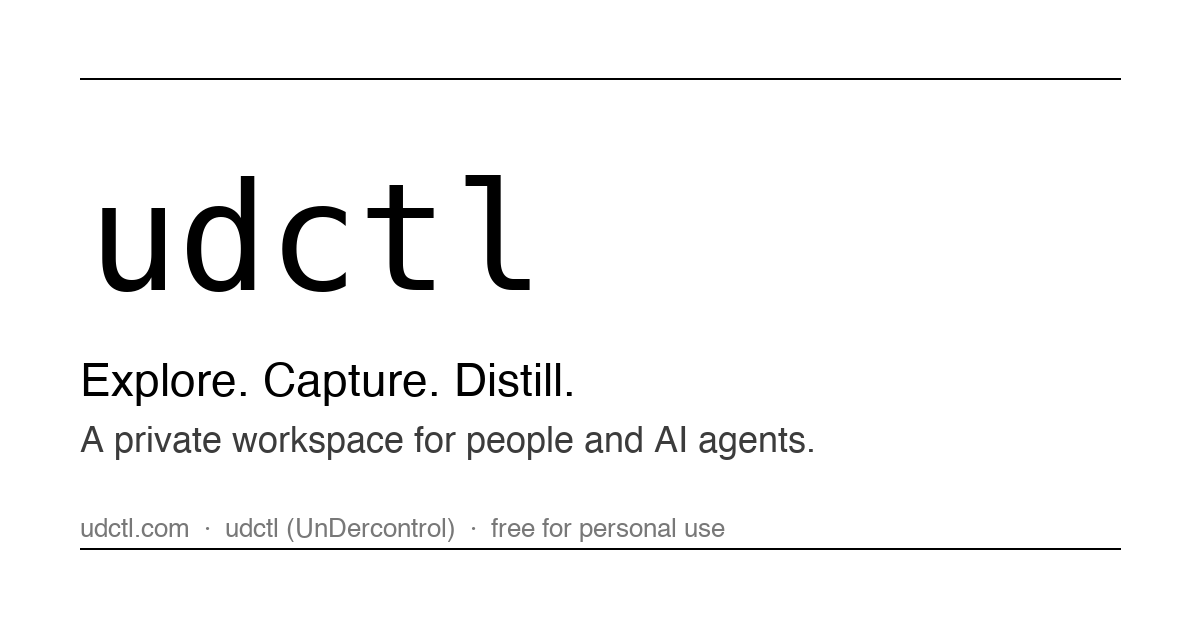
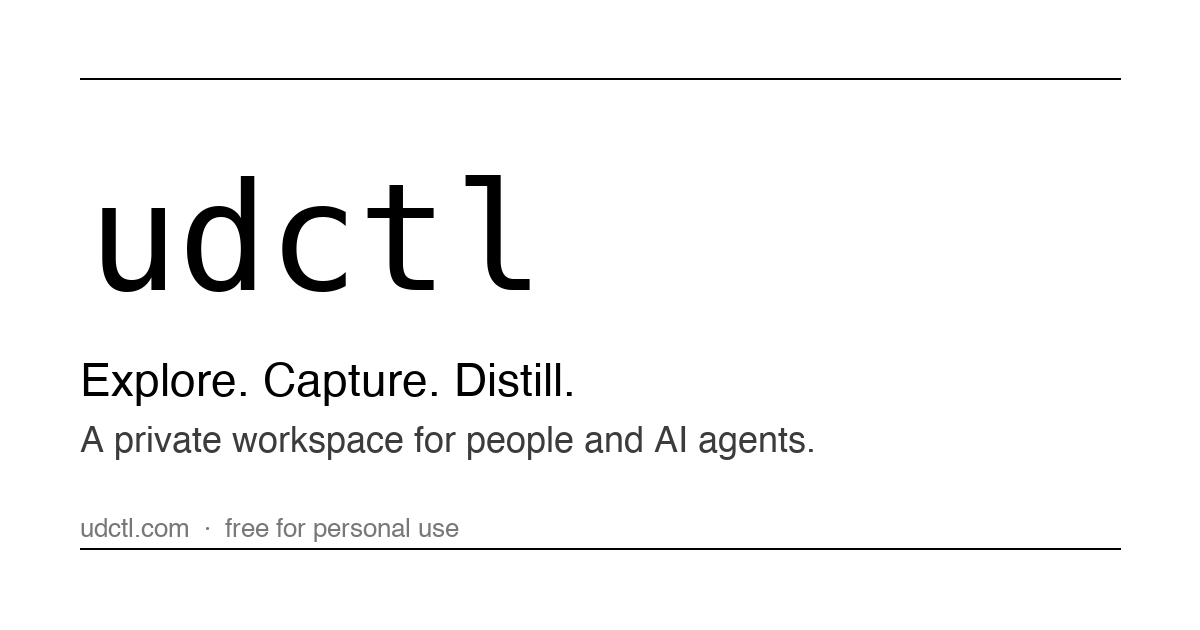
[02206f64] docs(brand): drop the former full name UnDercontrol, product name stays lowercase udctl (owner ruling 927)

Changed region(s): [[0.185, 0.8143, 0.6167, 0.8746]]

diff --git a/src/pages/index.tsx b/src/pages/index.tsx
@@ -1193,8 +1193,8 @@ function CtaSection() {
 
 /**
  * Structured data for the homepage (audit efb0ebf3 #6). Two nodes in one graph:
- * the Organization is what search engines attach the brand ("udctl", formerly
- * "UnDercontrol") and the sameAs profiles to; the SoftwareApplication is what
+ * the Organization is what search engines attach the brand ("udctl"; no alternateName since
+ * the 2026-11-12 ruling, ud card 02206f64) and the sameAs profiles to; the SoftwareApplication is what
  * lets a result carry the app category / price / platforms. `name` is not
  * translated on purpose — the brand token is the same in every locale — while
  * the description reuses the localized meta description so the two never drift.
@@ -1208,7 +1208,6 @@ function homepageJsonLd(description: string): string {
         '@type': 'Organization',
         '@id': `${url}/#organization`,
         name: 'udctl',
-        alternateName: 'UnDercontrol',
         url,
         logo: `${url}/img/favicon.svg`,
         sameAs: [
@@ -1222,7 +1221,6 @@ function homepageJsonLd(description: string): string {
         '@type': 'SoftwareApplication',
         '@id': `${url}/#software`,
         name: 'udctl',
-        alternateName: 'UnDercontrol',
         description,
         url,
         downloadUrl: `${url}/download`,
@@ -1265,7 +1263,7 @@ export default function Home(): ReactNode {
   const metaDescription = translate({
     id: 'homepage.description',
     message:
-      'udctl (UnDercontrol) is a self-hostable workspace for tasks, notes and expenses, with a kubectl-style CLI (`ud`) and AI coding agents you dispatch from a task comment.',
+      'udctl is a self-hostable workspace for tasks, notes and expenses, with a kubectl-style CLI (`ud`) and AI coding agents you dispatch from a task comment.',
     description: 'The homepage meta description',
   });
   return (

diff --git a/src/data/faq.ts b/src/data/faq.ts
@@ -14,7 +14,7 @@ export type FaqEntry = {q: string; a: string};
 export const FAQ_ZH: FaqEntry[] = [
   {
     "q": "udctl 是什么?",
-    "a": "udctl(UnDercontrol)是一个可自托管的工作台,用来管理任务、笔记和开销,带 kubectl 风格的命令行(`ud`),还能在任务评论里直接派活给 AI 编程 agent。"
+    "a": "udctl 是一个可自托管的工作台,用来管理任务、笔记和开销,带 kubectl 风格的命令行(`ud`),还能在任务评论里直接派活给 AI 编程 agent。"
   },
   {
     "q": "有没有 kubectl 风格的任务管理命令行工具?",
@@ -69,7 +69,7 @@ export const FAQ_ZH: FaqEntry[] = [
 export const FAQ_EN: FaqEntry[] = [
   {
     "q": "What is udctl?",
-    "a": "udctl (UnDercontrol) is a self-hostable workspace for tasks, notes and expenses, with a kubectl-style CLI (`ud`) and AI coding agents you dispatch from a task comment."
+    "a": "udctl is a self-hostable workspace for tasks, notes and expenses, with a kubectl-style CLI (`ud`) and AI coding agents you dispatch from a task comment."
   },
   {
     "q": "Is there a kubectl-style command-line tool for task management?",

diff --git a/docusaurus.config.ts b/docusaurus.config.ts
@@ -27,7 +27,7 @@ const config: Config = {
   // f02f82bb): 'ud' and 'undercontrol' cannot be ranked for (two letters / the
   // phrase "under control"), 'udctl' has no competing owner anywhere we checked.
   // Since the rename (same day, same task) the navbar, h1 and body copy say udctl
-  // too; UnDercontrol is the full name, written once as "udctl (UnDercontrol)" (ud card 38c286b2).
+  // too. The former full name UnDercontrol is no longer used (owner ruling 2026-11-12, ud card 02206f64).
   title: 'udctl',
   tagline: 'Explore. Capture. Distill. A private workspace for people and AI agents.',
   favicon: 'img/favicon.svg',
@@ -299,7 +299,7 @@ const config: Config = {
           ],
         },
       ],
-      copyright: `Copyright © ${new Date().getFullYear()} UnDercontrol Project · v${VERSION}`,
+      copyright: `Copyright © ${new Date().getFullYear()} udctl Project · v${VERSION}`,
     },
     prism: {
       theme: prismThemes.github,

diff --git a/scripts/social-card.py b/scripts/social-card.py
@@ -23,10 +23,10 @@ Usage
     python3 scripts/social-card.py --write
         Overwrite the two files in static/img.
 
-Expected (2026-09-20, ud-docs add1e63, macOS 26, Pillow 11.3.0):
+Expected (2026-11-12, after card 02206f64 dropped the former full name from the footer; macOS 26, Pillow 11.3.0):
     --verify prints "identical" for both cards;
-    --write reproduces md5 569bd52516d7b1b894cc94f2806fec8c (en) and
-    d12855be4237cc043e958ba8287b5490 (zh). Pixel identity is the claim that
+    --write reproduces md5 d0850bbbeac081abb649f0375b7b1944 (en) and
+    59f52dcfdcc79d1c368ecd5de0693f3b (zh). Pixel identity is the claim that
     matters; the md5 also depends on Pillow's PNG encoder.
 """
 import argparse
@@ -52,13 +52,13 @@ CARDS = {
         ("udctl", FONT_MENLO, 150, (0, 0, 0), (88, 150)),
         ("Explore. Capture. Distill.", FONT_HELVETICA, 46, (0, 0, 0), (80, 360)),
         ("A private workspace for people and AI agents.", FONT_HELVETICA, 36, (60, 60, 60), (80, 424)),
-        ("udctl.com  ·  udctl (UnDercontrol)  ·  free for personal use", FONT_HELVETICA, 26, (120, 120, 120), (80, 516)),
+        ("udctl.com  ·  free for personal use", FONT_HELVETICA, 26, (120, 120, 120), (80, 516)),
     ],
     "social-card.zh-Hans.png": [
         ("udctl", FONT_MENLO, 150, (0, 0, 0), (88, 150)),
         ("探索、记录、沉淀。", FONT_HIRAGINO, 44, (0, 0, 0), (80, 360)),
         ("人与 AI agent 共用的私密工作空间。", FONT_HIRAGINO, 34, (60, 60, 60), (80, 424)),
-        ("udctl.com  ·  udctl(UnDercontrol)  ·  个人使用免费", FONT_HIRAGINO, 24, (120, 120, 120), (80, 516)),
+        ("udctl.com  ·  个人使用免费", FONT_HIRAGINO, 24, (120, 120, 120), (80, 516)),
     ],
 }
 # Two 2px black rules, x 80..1120, at rows 78-79 and 548-549.

diff --git a/i18n/zh-Hans/docusaurus-plugin-content-docs/current/features/accounts-faqs.md b/i18n/zh-Hans/docusaurus-plugin-content-docs/current/features/accounts-faqs.md
@@ -59,7 +59,7 @@ Yes, add them as **Off-Budget accounts**. While you can't spend this money day-t
 
 ### My bank account shows available balance vs actual balance. Which do I use?
 
-Use your **actual balance** (also called "current balance"). Don't include pending transactions or overdraft protection in your UnDercontrol balance.
+Use your **actual balance** (also called "current balance"). Don't include pending transactions or overdraft protection in your udctl balance.
 
 ### I have foreign currency accounts. How does this work?
 
@@ -77,11 +77,11 @@ Currently, enter the equivalent amount in your primary currency. For example, if
 
 ### What if I forget to update balances?
 
-No problem! UnDercontrol doesn't automatically sync with your bank, so it relies on you to keep it current. Just update when you remember - your history will still be valuable.
+No problem! udctl doesn't automatically sync with your bank, so it relies on you to keep it current. Just update when you remember - your history will still be valuable.
 
 ### Can I connect my bank accounts automatically?
 
-Not currently. UnDercontrol requires manual balance updates. This gives you more control and privacy, but means you need to update balances yourself.
+Not currently. udctl requires manual balance updates. This gives you more control and privacy, but means you need to update balances yourself.
 
 ### How do I handle cash?
 
@@ -104,7 +104,7 @@ Turn it on/off with the eye icon on your accounts page.
 
 ### Is my financial data secure?
 
-Yes. UnDercontrol uses industry-standard security practices:
+Yes. udctl uses industry-standard security practices:
 - All data is encrypted
 - You can only see your own accounts
 - No sharing between users without permission
@@ -157,7 +157,7 @@ For now, convert everything to your primary currency and enter the equivalent am
 
 Account data export isn't currently available, but it's on the roadmap for future updates.
 
-### What happens to my data if I stop using UnDercontrol?
+### What happens to my data if I stop using udctl?
 
 Your data belongs to you. While there's no export feature yet, your account information isn't locked in - you can always manually record the balances elsewhere if needed.
 

diff --git a/README.md b/README.md
@@ -1,6 +1,6 @@
 # udctl
 
-**udctl** (UnDercontrol) is a private workspace for people and AI agents: tasks, threads and knowledge live here; so do each agent's definition, skills and scheduling across your machines; and it works just as well for one person with no agents at all. One data source; web, desktop, mobile, CLI, and chat clients on top of it.
+**udctl** is a private workspace for people and AI agents: tasks, threads and knowledge live here; so do each agent's definition, skills and scheduling across your machines; and it works just as well for one person with no agents at all. One data source; web, desktop, mobile, CLI, and chat clients on top of it.
 
 This repository is the source of the documentation site at **https://udctl.com** (English and 简体中文). The application itself is proprietary and free for personal use; its code is not in this repository.
 
@@ -70,7 +70,7 @@ Docusaurus 3. Pushing to `main` deploys through Cloudflare Workers Builds, so a 
 
 ## 中文
 
-udctl（UnDercontrol）是人与 AI agent 共用的私密工作空间：任务、对话和知识都存在这里，agent 的定义、技能和跨机器的编排也在这里，一个人不用 agent 照样能用；一份数据，Web、桌面、手机、命令行和聊天软件都是它的入口。本仓库是文档站 https://udctl.com 的源码，中英双语。应用本体为闭源软件，个人使用免费。
+udctl 是人与 AI agent 共用的私密工作空间：任务、对话和知识都存在这里，agent 的定义、技能和跨机器的编排也在这里，一个人不用 agent 照样能用；一份数据，Web、桌面、手机、命令行和聊天软件都是它的入口。本仓库是文档站 https://udctl.com 的源码，中英双语。应用本体为闭源软件，个人使用免费。
 
 - 在线试用：https://app.udctl.com
 - 下载（macOS / Windows / Linux 桌面版、iOS 公测、Android APK、Chrome 网页剪藏）：https://udctl.com/zh-Hans/download

diff --git a/i18n/zh-Hans/docusaurus-plugin-content-docs/current/features/accounts.md b/i18n/zh-Hans/docusaurus-plugin-content-docs/current/features/accounts.md
@@ -6,7 +6,7 @@ sidebar_position: 1
 
 ## What are Accounts?
 
-Accounts in UnDercontrol help you track all your financial accounts in one place - from checking and savings accounts to credit cards and investments. Think of it as your financial dashboard where you can see all your money at a glance.
+Accounts in udctl help you track all your financial accounts in one place - from checking and savings accounts to credit cards and investments. Think of it as your financial dashboard where you can see all your money at a glance.
 
 ## Account Types
 
@@ -66,7 +66,7 @@ Click on any account to see:
 - Related expenses (if you've linked expenses to this account)
 
 ### Balance History
-UnDercontrol automatically tracks when you update account balances, so you can:
+udctl automatically tracks when you update account balances, so you can:
 - See how your accounts have changed over time
 - Track your financial progress
 - Understand your spending patterns
@@ -110,6 +110,6 @@ Your account balances and history help create reports showing your financial pro
 1. **Add your main accounts first** - Start with checking, savings, and any credit cards
 2. **Set the right account types** - Everyday accounts should be "Budget", investments should be "Off-Budget"
 3. **Enter current balances** - This gives you an accurate starting point
-4. **Update regularly** - Keep balances current as you use UnDercontrol
+4. **Update regularly** - Keep balances current as you use udctl
 
 Once you have your accounts set up, you'll have a clear view of your complete financial picture!

diff --git a/i18n/zh-Hans/docusaurus-plugin-content-docs/current/howto/migrate-local-to-remote.md b/i18n/zh-Hans/docusaurus-plugin-content-docs/current/howto/migrate-local-to-remote.md
@@ -5,18 +5,18 @@ sidebar_position: 2
 
 # 从本地迁移数据到远程服务器
 
-了解如何将本地 UnDercontrol 桌面端（Personal 版，SQLite 数据库）的数据迁移到远程服务器，实现多设备同步和访问。
+了解如何将本地 udctl 桌面端（Personal 版，SQLite 数据库）的数据迁移到远程服务器，实现多设备同步和访问。
 
 ## 前提条件
 
-- 已有数据的 UnDercontrol 桌面端应用
-- 已部署并可访问的远程 UnDercontrol 服务器（参见 [Docker Compose 部署](/docs/self-deployment)）
+- 已有数据的 udctl 桌面端应用
+- 已部署并可访问的远程 udctl 服务器（参见 [Docker Compose 部署](/docs/self-deployment)）
 - 本机已安装 `ud` CLI（[CLI 文档](/docs/cli)）
 - 在本地和远程服务器上都已注册账号
 
 ## 概述
 
-使用 Personal 版 UnDercontrol 桌面端时，数据存储在本地 SQLite 数据库中。如果你想从多个设备（如笔记本电脑和手机）访问数据，需要将数据迁移到远程服务器。
+使用 Personal 版 udctl 桌面端时，数据存储在本地 SQLite 数据库中。如果你想从多个设备（如笔记本电脑和手机）访问数据，需要将数据迁移到远程服务器。
 
 `ud migrate` 命令从一个服务器（源）获取数据，并在另一个服务器（目标）上创建，自动处理跨引用的 ID 映射（如费用关联预算）。
 

diff --git a/i18n/zh-Hans/docusaurus-plugin-content-docs/current/query-syntax.md b/i18n/zh-Hans/docusaurus-plugin-content-docs/current/query-syntax.md
@@ -6,7 +6,7 @@ sidebar_position: 6
 
 # 查询语法
 
-UnDercontrol 提供了强大的 SQL 风格查询语法，用于过滤和搜索任务。你可以手动编写查询，也可以让 AI 根据自然语言自动生成。
+udctl 提供了强大的 SQL 风格查询语法，用于过滤和搜索任务。你可以手动编写查询，也可以让 AI 根据自然语言自动生成。
 
 ## 查询的使用场景
 
@@ -364,7 +364,7 @@ deadline < 'today' AND status != 'done' ORDER BY deadline ASC
 
 ## 在 CLI 中使用查询
 
-UnDercontrol CLI 支持直接在终端运行查询。这对于脚本编写、自动化和快速查找非常有用，无需离开终端工作流。
+udctl CLI 支持直接在终端运行查询。这对于脚本编写、自动化和快速查找非常有用，无需离开终端工作流。
 
 ### `ud query`
 
@@ -408,7 +408,7 @@ ud query "status != 'archived'" --page 2 --limit 20
 
 ## AI 驱动的查询
 
-UnDercontrol 集成了 AI 功能，让查询更加便捷。你无需学习查询语法，直接用自然语言描述需求即可。
+udctl 集成了 AI 功能，让查询更加便捷。你无需学习查询语法，直接用自然语言描述需求即可。
 
 ### 在 Web 界面中
 

diff --git a/CLAUDE.md b/CLAUDE.md
@@ -1,4 +1,4 @@
-# UnDercontrol Docs Site (ud-docs)
+# udctl Docs Site (ud-docs)
 
 Docusaurus site served at https://udctl.com — the canonical host since 2026-09-12
 (epic `f02f82bb`). `oatnil.com` and `www.udctl.com` 301 to it, and so does the
@@ -48,7 +48,7 @@ automatically via Cloudflare Workers Builds on push to `main`. i18n: `en`
 
 ## Conventions
 
-- The product name is **udctl**; **UnDercontrol** (capital U and D) is its full name, written once as `udctl (UnDercontrol)`, never as "formerly". Positioning and copy rules: ud card 38c286b2. It is proprietary —
+- The product name is **udctl**, lowercase everywhere (also at the start of a sentence). The former full name **UnDercontrol** is no longer used, not as `udctl (UnDercontrol)` and not as "formerly" (owner ruling 2026-11-12, ud card 02206f64); it stays only in literal identifiers and quoted output (`UnDercontrol.app`, the backend ready banner) and in dated blog posts and release notes. Positioning and copy rules: ud card 38c286b2. It is proprietary —
   never describe it as open-source.
 - Verify changes with `npm run build` (builds both locales; broken links fail
   the build). Pre-existing broken-anchor warnings on `/privacy`,

diff --git a/i18n/zh-Hans/docusaurus-plugin-content-docs/current/features/accounts-quick-start.md b/i18n/zh-Hans/docusaurus-plugin-content-docs/current/features/accounts-quick-start.md
@@ -6,7 +6,7 @@ sidebar_position: 3
 
 ## Your First 5 Minutes with Accounts
 
-This guide will help you set up your financial accounts in UnDercontrol and start tracking your money effectively.
+This guide will help you set up your financial accounts in udctl and start tracking your money effectively.
 
 ## Step 1: Add Your Main Accounts
 
@@ -103,4 +103,4 @@ Once your accounts are set up:
 - **Want to see history?** Click on any account to see balance changes over time
 - **Need privacy?** Toggle "blind mode" to hide dollar amounts
 
-Your accounts are the foundation of good financial tracking in UnDercontrol. Take a few minutes to set them up correctly, and everything else will be much easier!
+Your accounts are the foundation of good financial tracking in udctl. Take a few minutes to set them up correctly, and everything else will be much easier!

diff --git a/i18n/zh-Hans/docusaurus-plugin-content-docs/current/release-notes.md b/i18n/zh-Hans/docusaurus-plugin-content-docs/current/release-notes.md
@@ -1,6 +1,6 @@
 ---
 title: 版本发布记录
-description: UnDercontrol 完整的版本历史和更新日志
+description: udctl 完整的版本历史和更新日志
 sidebar_position: 1
 ---
 
@@ -2333,11 +2333,11 @@ brew update && brew upgrade ud # 当初用 Homebrew 装的(同时会装上新的
 
 ---
 
-UnDercontrol 的版本更新历史和新功能介绍。
+udctl 的版本更新历史和新功能介绍。
 
 ## 版本号说明
 
-UnDercontrol 采用**语义化版本号**（格式：主版本号.次版本号.修订号），例如 `v0.19.0`：
+udctl 采用**语义化版本号**（格式：主版本号.次版本号.修订号），例如 `v0.19.0`：
 
 - **主版本号 0**：表示开发版本，API 和功能可能会有较大变动
 - **次版本号**（如 0.**19**.0）：增加新功能、重大改进或包含破坏性变更时递增
